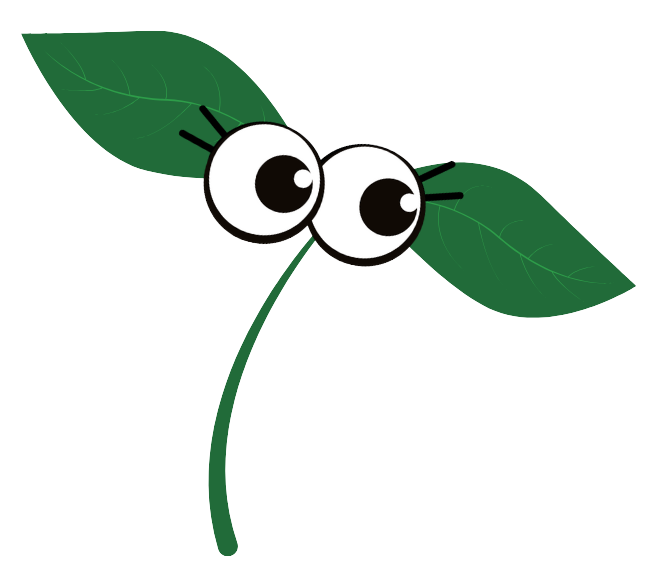
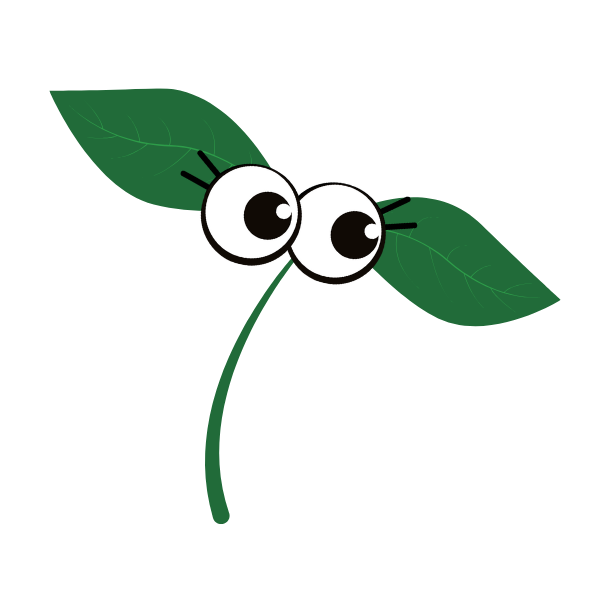
design: styled recipe bot page, including chatbox and added animated Planty image

diff --git a/mdi-react/src/components/pages/RecipeBot.module.scss b/mdi-react/src/components/pages/RecipeBot.module.scss
@@ -1,6 +1,8 @@
 @use "../../styles/colors.scss" as *;
 @use "../../styles/fonts.scss" as *;
 
+//Right side of the page
+
 .messages {
   padding: 1rem;
   height: 14rem;
@@ -44,21 +46,58 @@
   display: flex;
   border-top: 1px solid #ddd;
   width: 100%;
+  height: 3rem;
   input {
     flex: 1;
     border: 1px solid $beige-dark;
-    border-radius: 5px;
+    border-radius: 20px;
     margin-right: 0.5rem;
     font-size: 1rem;
+    padding: 0rem 1rem;
+  }
+  button {
+    margin: 0;
   }
 }
 
-//Left component image
+//Left side of the page (image)
 
-.planty-image-container {
-  perspective: 300rem;
-  transition: transform 0.5s;
-  &:hover {
-    transform: rotateY(180deg);
+@keyframes NAME {
+  from {
+    transform: rotate(0deg);
+  }
+  to {
+    transform: rotate(360deg);
+  }
+}
+
+.plantyImageContainer {
+  position: relative;
+  width: 30rem;
+  height: auto;
+}
+
+.plantyImageLC {
+  position: absolute;
+  top: -15rem;
+  left: 0;
+  width: 100%;
+  height: auto;
+}
+
+.eyesClosed {
+  opacity: 0;
+  animation: blink 5s infinite none;
+}
+
+@keyframes blink {
+  0%,
+  98%,
+  100% {
+    opacity: 0;
+  }
+
+  99% {
+    opacity: 1;
   }
 }

diff --git a/mdi-react/src/components/LC_planty.jsx b/mdi-react/src/components/LC_planty.jsx
@@ -1,13 +1,20 @@
+import React from "react";
 import plantyImage from "../images/RecipeBotPlanty.png";
+import plantyImageBlink from "../images/RecipeBotPlantyBlink.png";
 import styles from "./pages/RecipeBot.module.scss";
 
-export default function LC_Planty({ props }) {
+export default function LC_Planty() {
   return (
-    <div>
+    <div className={styles.plantyImageContainer}>
       <img
         src={plantyImage}
-        className={styles["planty-image"]}
-        alt="Green sprout character with bigeyes"
+        className={`${styles.plantyImageLC} ${styles.eyesOpen}`}
+        alt="Green sprout character with big eyes opened"
+      />
+      <img
+        src={plantyImageBlink}
+        className={`${styles.plantyImageLC} ${styles.eyesClosed}`}
+        alt="Green sprout character with big eyes closed"
       />
     </div>
   );
